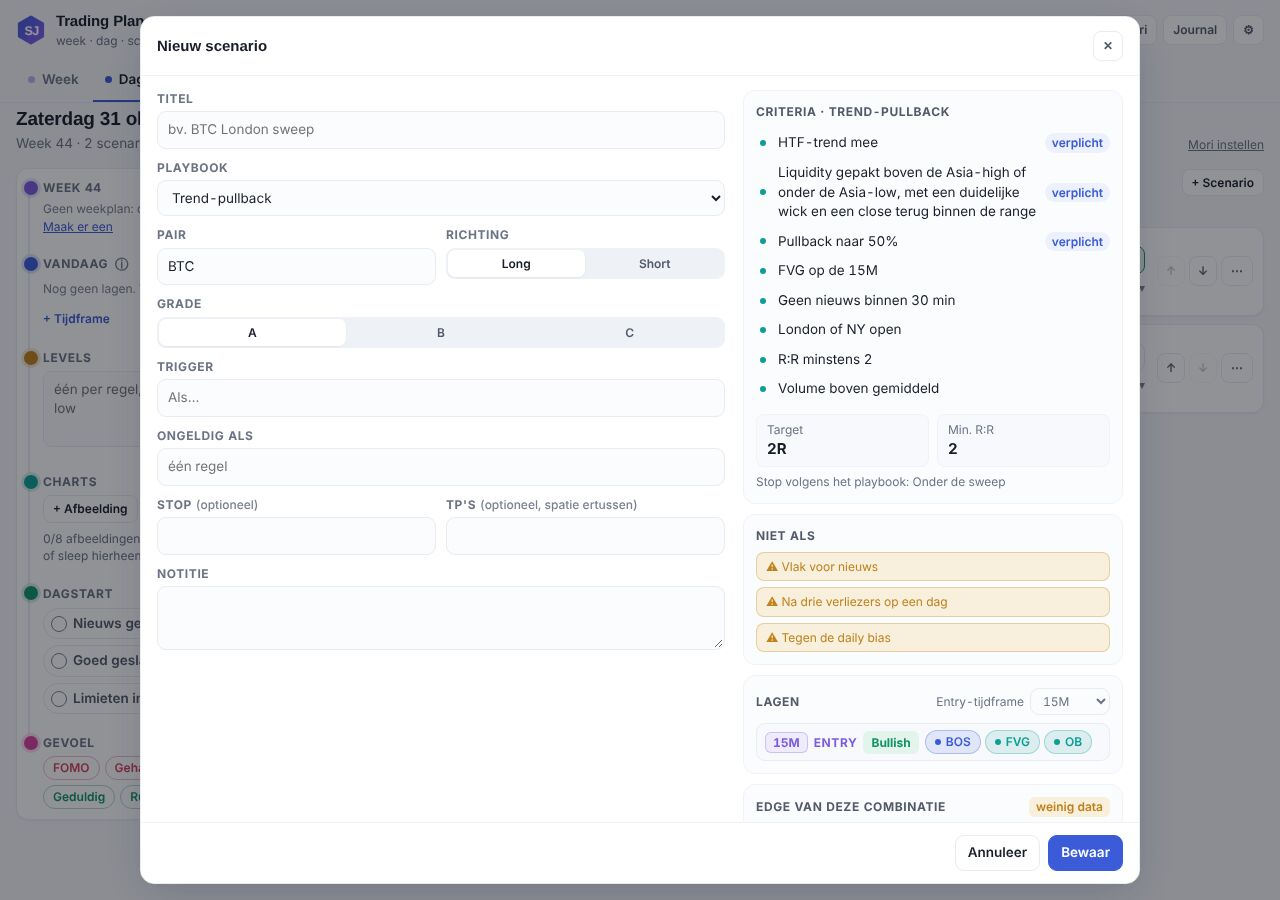
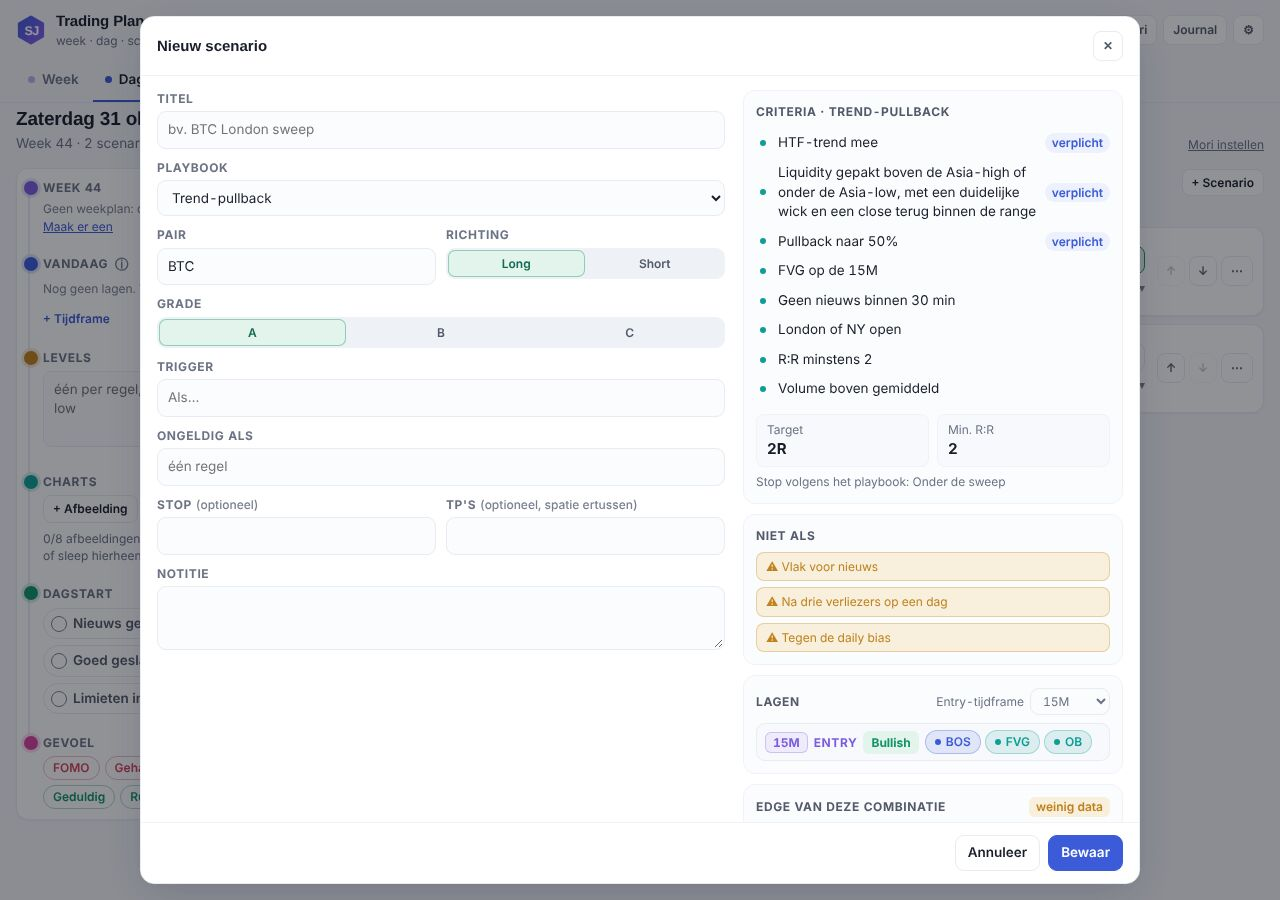
Plan v3 round 6, point 3: direction and grade in colour
In the scenario window the chosen direction and grade now take the colours of
.dir and .grade (long green, short red, A green, B accent, C amber) on their
soft fill; the others stay grey with a hint of their colour on hover. The text
is mixed with --ink so it stays at 4.5:1 or better in light and dark (measured
in the spec), tokens only, aria-pressed on every button. Elsewhere in the plan
the Log's direction filter was already coloured and there is no other such
choice. plan3-ronde6 joins the release gate.

Changed region(s): [[0.125, 0.3422, 0.2812, 0.4044], [0.3438, 0.28, 0.4688, 0.3111]]

diff --git a/tests/plan3-ronde6.spec.js b/tests/plan3-ronde6.spec.js
@@ -5,6 +5,8 @@
 //  2. Het scenario-venster: ± 1000 breed, links het formulier (vaste volgorde), rechts sticky playbook en context
 //     (criteria als lijst met "verplicht"-badges, "Niet als" per regel in amber, Target en Min R:R, lagen met entry-
 //     tijdframe, edge). Zonder playbook een lege staat. Lange criteria: Annuleer/Bewaar blijven zichtbaar. 390: één kolom.
+//  3. Richting en grade in kleur: gekozen Long groen, Short rood, A groen, B accent, C amber (de kleuren van .dir en
+//     .grade); niet gekozen rustig grijs met een vleugje kleur bij hover; aria-pressed; contrast ≥ 4,5 in licht en donker.
 const { chromium } = require('playwright');
 const H = require('./helpers/plan3'); const NAAM = 'Plan v3 ronde 6';
 const L = (tf, setups = [], confirmations = [], bias = '') => ({ tf, bias, setups, confirmations });
@@ -132,6 +134,31 @@ const TV = 'https://www.tradingview.com/x/AbC123/', EIGEN_TV = 'https://www.trad
   ok('390: één kolom, playbook en context onder het formulier', v.onder && !v.kol, JSON.stringify({ onder: v.onder, kol: v.kol }));
   ok('390: geen horizontale scroll in het venster', await p.evaluate(() => { const m = document.querySelector('#modal .modal'); return m.scrollWidth <= m.clientWidth + 1 && document.documentElement.scrollWidth <= innerWidth + 1; }));
   await p.click('#modal [data-a="close"]'); await p.setViewportSize({ width: 1280, height: 900 });
+
+  console.log('--- 3. richting en grade in kleur ---');
+  // contrast (WCAG) van tekst op zijn achtergrond; getComputedStyle geeft rgb() of color(srgb …)
+  const kleuren = sel => p.evaluate(sel => { const parse = c => { const m = c.match(/color\(srgb ([\d.]+) ([\d.]+) ([\d.]+)/); if (m) return m.slice(1, 4).map(x => +x * 255); const n = c.match(/[\d.]+/g).map(Number); return n.slice(0, 3); };
+    const lum = ([r, g, b]) => { const f = v => { v /= 255; return v <= 0.03928 ? v / 12.92 : ((v + 0.055) / 1.055) ** 2.4; }; return 0.2126 * f(r) + 0.7152 * f(g) + 0.0722 * f(b); };
+    return [...document.querySelectorAll(sel + ' button')].map(b => { const c = getComputedStyle(b), fg = parse(c.color), bg = parse(c.backgroundColor === 'rgba(0, 0, 0, 0)' ? getComputedStyle(b.parentElement).backgroundColor : c.backgroundColor);
+      const L1 = lum(fg), L2 = lum(bg); return { v: b.dataset.v, on: b.getAttribute('aria-pressed') === 'true', fg: fg.map(Math.round), bg: bg.map(Math.round), contrast: +((Math.max(L1, L2) + 0.05) / (Math.min(L1, L2) + 0.05)).toFixed(2) }; }); }, sel);
+  const tint = ([r, g, b]) => Math.max(r, g, b) - Math.min(r, g, b) < 45 ? 'grijs' : g > r + 20 && g > b ? 'groen' : r > g + 20 && r > b + 20 && Math.abs(g - b) < 40 ? 'rood' : b > r + 20 && b > g ? 'blauw' : r > b + 40 && g > b + 15 ? 'amber' : 'grijs';
+  for (const donker of [false, true]) {
+    await H.thema(p, donker); const th = donker ? 'donker' : 'licht';
+    await p.click('[data-a="newScen"]'); await p.waitForTimeout(120);
+    const keuze = async (pp, v) => { await p.click(`#modal [data-a="dset"][data-p="${pp}"][data-v="${v}"]`); await p.waitForTimeout(60); return (await kleuren('#sc-' + (pp === 'dir' ? 'dir' : 'grade'))).find(x => x.v === v); };
+    const L1 = await keuze('dir', 'long'), S1 = await keuze('dir', 'short'), A1 = await keuze('grade', 'A'), B1 = await keuze('grade', 'B'), C1 = await keuze('grade', 'C');
+    ok(`${th}: gekozen Long groen, Short rood`, L1.on && tint(L1.fg) === 'groen' && S1.on && tint(S1.fg) === 'rood', JSON.stringify([L1, S1]));
+    ok(`${th}: gekozen A groen, B accent, C amber`, A1.on && tint(A1.fg) === 'groen' && B1.on && tint(B1.fg) === 'blauw' && C1.on && tint(C1.fg) === 'amber', JSON.stringify([A1, B1, C1]));
+    ok(`${th}: gekozen knoppen hebben contrast ≥ 4,5`, [L1, S1, A1, B1, C1].every(x => x.contrast >= 4.5), JSON.stringify([L1, S1, A1, B1, C1].map(x => x.v + ':' + x.contrast)));
+    const niet = (await kleuren('#sc-grade')).filter(x => !x.on);
+    ok(`${th}: niet gekozen: rustig grijs, leesbaar (≥ 4,5)`, niet.every(x => tint(x.fg) === 'grijs' && x.contrast >= 4.5), JSON.stringify(niet));
+    await p.hover('#modal [data-a="dset"][data-p="grade"][data-v="A"]'); await p.waitForTimeout(150);
+    const hov = (await kleuren('#sc-grade')).find(x => x.v === 'A');
+    ok(`${th}: hover op een niet-gekozen knop: een vleugje van zijn kleur`, tint(hov.fg) === 'groen' && hov.contrast >= 4.5, JSON.stringify(hov));
+    ok(`${th}: aria-pressed op elke knop`, await p.evaluate(() => [...document.querySelectorAll('#sc-dir button,#sc-grade button')].every(b => ['true', 'false'].includes(b.getAttribute('aria-pressed')))));
+    await p.click('#modal [data-a="close"]'); await p.waitForTimeout(80);
+  }
+  await H.thema(p, false);
 
   console.log('--- screenshots van het venster ---');
   const VENSTER = async (naam, open) => { for (const donker of [false, true]) { await H.thema(p, donker); for (const w of [1280, 390]) { await p.setViewportSize({ width: w, height: 900 }); await p.waitForTimeout(120); await open();

diff --git a/tradingplan/tradingplan.html b/tradingplan/tradingplan.html
@@ -63,6 +63,14 @@ body.breed .wrap,body.breed .top-in{max-width:1680px}
 .seg button{padding:5px 10px;border-radius:7px;font-size:var(--t1);font-weight:600;color:var(--ink2);white-space:nowrap}
 .seg button.on{background:var(--surface);color:var(--ink);box-shadow:var(--sh)}
 .seg.sm button{padding:3px 8px;font-size:var(--t1)}
+/* round 6: a direction or grade choice in its own colour (as .dir and .grade). The text is mixed with --ink so it stays
+   readable on the soft fill: darker in light, lighter in dark. */
+.seg.kleur button{--kc:var(--accent);--ks:var(--accent-soft)}
+.seg.kleur .k-long,.seg.kleur .k-A{--kc:var(--green);--ks:var(--green-soft)}
+.seg.kleur .k-short{--kc:var(--red);--ks:var(--red-soft)}
+.seg.kleur .k-C{--kc:var(--amber);--ks:var(--amber-soft)}
+.seg.kleur button:not(.on):hover{color:color-mix(in srgb,var(--kc) 65%,var(--ink));background:color-mix(in srgb,var(--kc) 10%,var(--track))}
+.seg.kleur button.on{color:color-mix(in srgb,var(--kc) 65%,var(--ink));background:var(--ks);box-shadow:inset 0 0 0 1px color-mix(in srgb,var(--kc) 40%,transparent)}
 .ibtn{height:30px;min-width:30px;padding:0 9px;border-radius:8px;border:1px solid var(--line);background:var(--surface);font-size:var(--t1);font-weight:600;color:var(--ink2);display:inline-flex;align-items:center;justify-content:center;gap:5px;text-decoration:none}
 .ibtn:hover{background:var(--hover)}
 .tabs{width:100%;display:flex;gap:2px;margin-top:4px;overflow-x:auto}
@@ -1336,8 +1344,8 @@ function modalH(){
       <div class="full"><label class="f" for="sc-title">Titel</label><input class="inp" id="sc-title" data-f="draft.title" value="${esc(d.title)}" placeholder="bv. BTC London sweep"></div>
       <div class="full"><label class="f" for="sc-pb">Playbook</label>${pbs.length?`<select class="inp" id="sc-pb" data-f="draft.pb"><option value="">Kies…</option>${pbs.map(p=>`<option value="${esc(p)}" ${d.pb===p?'selected':''}>${esc(p)}</option>`).join('')}</select>`:`<div class="faint small" style="padding-top:6px">Nog geen playbooks in je journal. Maak er een in de journal (Playbooks), dan vergelijkt het plan je trades ermee.</div>`}</div>
       <div><label class="f" for="sc-pair">Pair</label><input class="inp" id="sc-pair" data-f="draft.pair" value="${esc(d.pair)}" placeholder="BTC"></div>
-      <div><label class="f" id="sc-dir-l">Richting</label><span class="seg" id="sc-dir" role="group" aria-labelledby="sc-dir-l" style="display:flex">${['long','short'].map(x=>`<button style="flex:1" class="${d.dir===x?'on':''}" data-a="dset" data-p="dir" data-v="${x}" aria-pressed="${d.dir===x}">${cap(x)}</button>`).join('')}</span></div>
-      <div class="full"><label class="f" id="sc-grade-l">Grade</label><span class="seg" id="sc-grade" role="group" aria-labelledby="sc-grade-l" style="display:flex">${['A','B','C'].map(x=>`<button style="flex:1" class="${d.grade===x?'on':''}" data-a="dset" data-p="grade" data-v="${x}" aria-pressed="${d.grade===x}">${x}</button>`).join('')}</span></div>
+      <div><label class="f" id="sc-dir-l">Richting</label><span class="seg kleur" id="sc-dir" role="group" aria-labelledby="sc-dir-l" style="display:flex">${['long','short'].map(x=>`<button style="flex:1" class="k-${x} ${d.dir===x?'on':''}" data-a="dset" data-p="dir" data-v="${x}" aria-pressed="${d.dir===x}">${cap(x)}</button>`).join('')}</span></div>
+      <div class="full"><label class="f" id="sc-grade-l">Grade</label><span class="seg kleur" id="sc-grade" role="group" aria-labelledby="sc-grade-l" style="display:flex">${['A','B','C'].map(x=>`<button style="flex:1" class="k-${x} ${d.grade===x?'on':''}" data-a="dset" data-p="grade" data-v="${x}" aria-pressed="${d.grade===x}">${x}</button>`).join('')}</span></div>
       <div class="full"><label class="f" for="sc-trig">Trigger</label><input class="inp" id="sc-trig" data-f="draft.trigger" value="${esc(d.trigger)}" placeholder="Als…"></div>
       <div class="full"><label class="f" for="sc-inv">Ongeldig als</label><input class="inp" id="sc-inv" data-f="draft.invalid" value="${esc(d.invalid)}" placeholder="één regel"></div>
       <div><label class="f" for="sc-stop">Stop <span class="faint">(optioneel)</span></label><input class="inp num" id="sc-stop" data-f="draft.stop" value="${esc(d.stop)}"></div>

diff --git a/tests/release-set.js b/tests/release-set.js
@@ -79,6 +79,7 @@ module.exports = [
   'plan3-criteria',          // playbook-criteria in een scenario standaard ingeklapt; amber als verplichte nog open staan
   'plan3-scenario-beeld',    // ronde 4: Dag breder, opengeklapt scenario met chart, Plan en sticky Uitvoering & edge
   'plan3-ronde5',            // criteria-knop, Plan in blokken, bewerken/verwijderen (⋯-menu, bevestiging in de pagina), volgorde
+  'plan3-ronde6',            // scenario-venster: beeld mee bij koppelen, breed venster met playbook rechts, richting/grade in kleur
 
   // analyse en weergave
   'matrix', 'yearheatmap', 'review-list', 'coach-share', 'review-beeld', 'tv-links', 'theme-hook', 'beeld-escaping',

diff --git a/docs/plan-v3-ronde6-2026-10-31.md b/docs/plan-v3-ronde6-2026-10-31.md
@@ -126,3 +126,24 @@ groen. Voor/na: `docs/plan-v3-ronde6-screenshots/voor-venster-*` en `na-venster-
 - Besluit: de compacte voorvertoning van ronde 3 (punt 8: "mag zichtbaar blijven, maar compact") is vervangen — Zaratras
   vindt de criteria "tekst achter elkaar" juist onoverzichtelijk, en rechts naast het formulier is er nu ruimte — als het
   fout is: het venster is hoger met lange criteria; de knoppen blijven onderaan in beeld (de spec bewaakt dat).
+
+**Punt 3 — klaar.** `plan3-ronde6` deel 3 (samen 38/38; deel 3 eerst rood op elke kleurcheck). Alle plan3-specs,
+`theme-hook` en `faq` groen (21/21). De na-screenshots van het venster zijn met de kleuren ververst.
+
+- Richting en grade in het scenario-venster zijn `.seg.kleur`, met per knop `k-long`, `k-short`, `k-A`, `k-B` en `k-C`.
+  - Gekozen: de soft-achtergrond van `.dir`/`.grade` met een dunne rand in de kleur.
+  - Niet gekozen: grijs; bij hover een vleugje kleur.
+  - `aria-pressed` op elke knop.
+- Gemeten contrast van de gekozen knoppen, licht: A 5,67 · B 7,49 · C 5,02. Donker ruim boven de 4,5.
+- Elders nagelopen:
+  - Log: het filter op richting was al groen/rood (`chip.d-long`/`d-short`).
+  - Tandwiel: geen grade-keuze, alleen percentages per grade.
+  - Koppel-venster: geen richting- of grade-keuze.
+  - Er was dus niets anders om gelijk te trekken.
+
+- Besluit: de tekstkleur is de kleur gemengd met `--ink` (65/35) in plaats van de pure kleur van de badges — groen,
+  amber en rood op hun soft-achtergrond halen in het lichte thema geen 4,5 (± 3–3,5); mengen met `--ink` maakt de tekst
+  in licht donkerder en in donker lichter, met één regel — als het fout is: de knoppen zijn iets donkerder dan de
+  `.dir`/`.grade`-badges op de rest van de pagina.
+- Besluit: alleen tokens (`--green`, `--green-soft` … en `color-mix`), geen hex; `--kc`/`--ks` per knop — de
+  theme-token-hook bewaakt dat — als het fout is: geen.
